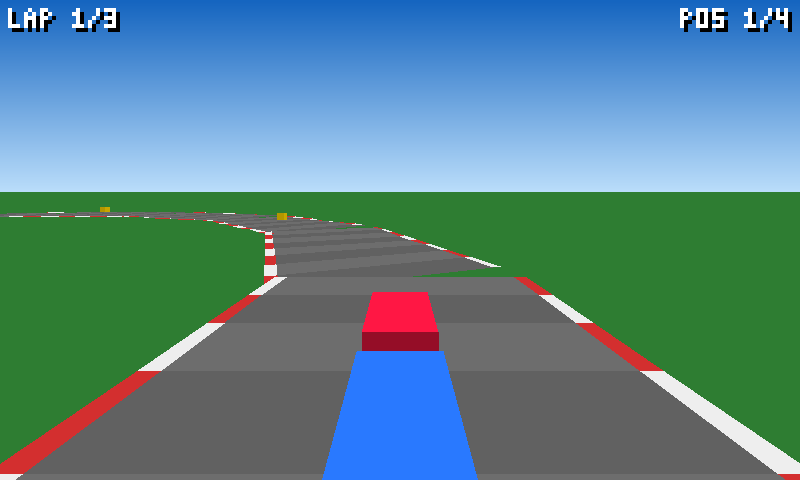
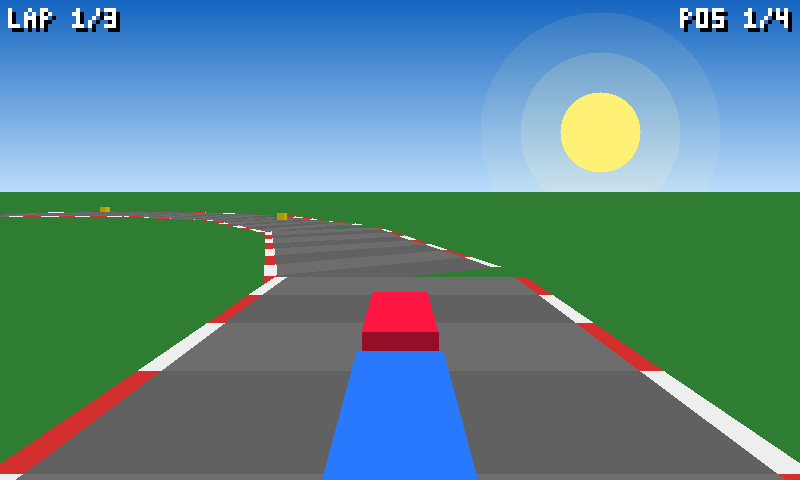
Kart: sole con alone e scia di polvere, screenshot rifatti
Sole con alone sopra l'orizzonte e scia di quadrati a terra dietro ai kart
in movimento. Screenshot 1920x1080 e 800x480 al tick 120.

Claude-Session: https://claude.ai/code/session_01AVhvvNQ7sJMCBuXmjxTrUJ

Changed region(s): [[0.625, 0.0938, 0.875, 0.375]]

diff --git a/games/kart/src/render.rs b/games/kart/src/render.rs
@@ -4,6 +4,7 @@
 
 use crate::{
     fx::{dir, int, isqrt, mul, Fx, ONE},
+    kart::Kart,
     race::{Haz, Race, N_BOXES},
     track::Track,
 };
@@ -17,6 +18,9 @@ const BOX: u32 = 0xFFFFD600;
 const BANANA: u32 = 0xFFFFEB3B;
 const SHELL: u32 = 0xFFE53935;
 const WHITE: u32 = 0xFFFFFFFF;
+const SUN: u32 = 0xFFFFF176;
+const SUN_GLOW: u32 = 0xFFFFF9C4;
+const DUST: u32 = 0xFFB0BEC5;
 const BLACK: u32 = 0xFF000000;
 const COLORS: [u32; 8] = [
     0xFFFF1744, 0xFF2979FF, 0xFF00E676, 0xFFFF9100, 0xFFD500F9, 0xFF00E5FF, 0xFFFF80AB, 0xFFEEEEEE,
@@ -172,6 +176,61 @@ fn paint(buf: &mut [u32], w: usize, h: usize, list: &mut [Quad]) {
     }
 }
 
+/// Miscela `s` su `d` con opacità `a` (0..=256).
+fn blend(d: u32, s: u32, a: u32) -> u32 {
+    let ch = |sh: u32| {
+        let (x, y) = ((d >> sh) & 255, (s >> sh) & 255);
+        ((x * (256 - a) + y * a) / 256) << sh
+    };
+    0xFF000000 | ch(16) | ch(8) | ch(0)
+}
+
+/// Sole con alone, sopra l'orizzonte.
+fn sun(buf: &mut [u32], w: usize, h: usize, hor: usize) {
+    let r = (h / 12) as i32;
+    let (cx, cy) = (w as i32 * 3 / 4, hor as i32 - r * 3 / 2);
+    for dy in -3 * r..=3 * r {
+        let y = cy + dy;
+        if y < 0 || y >= hor as i32 {
+            continue;
+        }
+        for dx in -3 * r..=3 * r {
+            let x = cx + dx;
+            if x < 0 || x >= w as i32 {
+                continue;
+            }
+            let d2 = dx * dx + dy * dy;
+            let i = y as usize * w + x as usize;
+            if d2 <= r * r {
+                buf[i] = blend(buf[i], SUN, 256);
+            } else if d2 <= 4 * r * r {
+                buf[i] = blend(buf[i], SUN_GLOW, 60);
+            } else if d2 <= 9 * r * r {
+                buf[i] = blend(buf[i], SUN_GLOW, 24);
+            }
+        }
+    }
+}
+
+/// Scia di polvere: quattro quadrati a terra dietro al kart, più grandi più lontani.
+fn dust(cam: &Cam, k: &Kart, tick: u32, list: &mut [Quad], len: &mut usize) {
+    if k.v < 2 * ONE {
+        return;
+    }
+    let f = dir(k.h);
+    let r = (f.1, -f.0);
+    for i in 1..=4 {
+        let back = int(9 * i);
+        let sway = int(((tick as i32 + 3 * i) % 5) - 2);
+        let cx = k.x - mul(f.0, back) + mul(r.0, sway);
+        let cy = k.y - mul(f.1, back) + mul(r.1, sway);
+        let s = int(i + 1);
+        let c = |sx: Fx, sy: Fx| V3 { x: cx + mul(r.0, sx) - mul(f.0, sy), y: cy + mul(r.1, sx) - mul(f.1, sy), z: int(1) };
+        let poly = [c(-s, -s), c(s, -s), c(s, s), c(-s, s)];
+        cam.add(&poly, lerp(DUST, GRASS, 40 * i as u32), list, len);
+    }
+}
+
 /// Strisce di strada e cordoli, un quadrilatero per sottosegmento.
 fn track_quads(cam: &Cam, tr: &Track, list: &mut [Quad], len: &mut usize) {
     let n = tr.n();
@@ -250,6 +309,7 @@ pub fn draw(race: &Race, buf: &mut [u32], w: usize, h: usize, cam: usize) {
         focal: h as i64 * 2 / 3,
     };
 
+    sun(buf, w, h, hor);
     let mut tq = [Quad::default(); N_TRACK];
     let mut nt = 0;
     track_quads(&cm, race.track, &mut tq, &mut nt);
@@ -258,6 +318,9 @@ pub fn draw(race: &Race, buf: &mut [u32], w: usize, h: usize, cam: usize) {
     let mut oq = [Quad::default(); N_OBJ];
     let mut no = 0;
     let n = race.track.n();
+    for i in 0..race.n {
+        dust(&cm, &race.karts[i], race.tick, &mut oq, &mut no);
+    }
     for b in 0..N_BOXES {
         if race.boxes[b] == 0 {
             let (x, y) = race.track.point(b * n / N_BOXES, ONE / 2);
